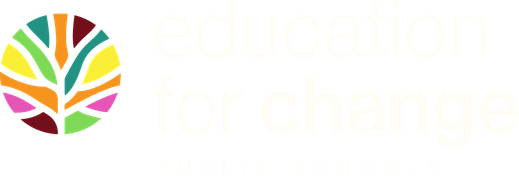
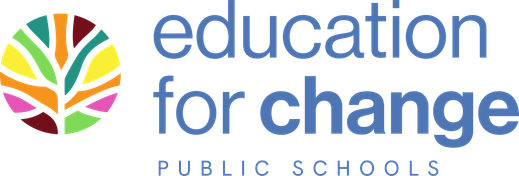
Bold: schools strip below the case studies as one slow looping row (static rows under reduced motion); Aspire and Education for Change wordmarks recolored for white tiles

diff --git a/tests/smoke.spec.ts b/tests/smoke.spec.ts
@@ -556,16 +556,23 @@ test('Concept 06: one H1, what we do right under the reel, no figure above the c
   const logos = page.getByTestId('client-logo');
   await expect(logos).toHaveCount(13);
   await page.getByTestId('client-strip').scrollIntoViewIfNeeded();
-  // thirteen tiles still wrap without a lone tile on any row, rows never widen downward
-  const logoRows = await logos.evaluateAll((els) => { const m = new Map<number, number>(); for (const el of els) { const t = Math.round(el.getBoundingClientRect().top); m.set(t, (m.get(t) ?? 0) + 1); } return [...m.entries()].sort((a, b) => a[0] - b[0]).map(([, n]) => n); });
-  expect(logoRows.reduce((a, b) => a + b, 0)).toBe(13);
-  expect(logoRows[logoRows.length - 1], `logo rows ${logoRows.join('-')}`).toBeGreaterThan(1);
-  for (let i = 1; i < logoRows.length; i++) expect(logoRows[i], `logo rows ${logoRows.join('-')}`).toBeLessThanOrEqual(logoRows[i - 1]);
+  // the strip sits below the three case studies and loops as one slow row: the track moves on its own and pauses under the pointer
+  expect(await page.getByTestId('client-strip').evaluate((el) => el.getBoundingClientRect().top > document.querySelector('.cr-case-row')!.getBoundingClientRect().bottom)).toBe(true);
+  await expect(page.getByTestId('client-strip')).toHaveAttribute('data-mode', 'marquee');
+  const track = page.locator('.cr-clients-track');
+  const x0 = await track.evaluate((el) => new DOMMatrixReadOnly(getComputedStyle(el).transform).m41);
+  await page.waitForTimeout(700);
+  const x1 = await track.evaluate((el) => new DOMMatrixReadOnly(getComputedStyle(el).transform).m41);
+  expect(x1, 'the logo row should be moving').not.toBe(x0);
+  await page.getByTestId('client-marquee').hover();
+  await expect.poll(() => track.evaluate((el) => getComputedStyle(el).animationPlayState)).toBe('paused');
+  await page.mouse.move(0, 0);
   await expect.poll(() => logos.locator('img').evaluateAll((imgs) => imgs.filter((el) => !(el as HTMLImageElement).complete || (el as HTMLImageElement).naturalWidth === 0).length), { timeout: 15_000 }).toBe(0);
   expect(await logos.locator('img').evaluateAll((imgs) => imgs.map((el) => (el as HTMLImageElement).alt).filter((a) => a.length < 4))).toEqual([]);
+  // every mark measured dark after Aspire and Education for Change were recolored for white tiles (October 30); the backstop still holds for any light mark
   const dark = await logos.evaluateAll((els) => els.filter((el) => el.getAttribute('data-tone') === 'light').map((el) => getComputedStyle(el).backgroundColor));
-  expect(dark.length).toBeGreaterThanOrEqual(2);
-  for (const bg of dark) expect(bg).not.toBe('rgb(255, 255, 255)');
+  expect(dark).toEqual([]);
+  expect(await logos.evaluateAll((els) => els.map((el) => getComputedStyle(el).backgroundColor).filter((bg) => bg !== 'rgb(255, 255, 255)'))).toEqual([]);
   const spill = await logos.evaluateAll((els) => els.map((el) => { const t = el.getBoundingClientRect(), i = el.querySelector('img')!.getBoundingClientRect(); return Math.round(Math.max(0, t.top - i.top, i.bottom - t.bottom, t.left - i.left, i.right - t.right)); }));
   expect(spill.filter((px) => px > 1), 'logos spilling out of their tiles').toEqual([]);
   expect(await page.getByTestId('cta-primary').getAttribute('href')).toBe('#contact');
@@ -582,6 +589,12 @@ test('Concept 06: one H1, what we do right under the reel, no figure above the c
   const dimmed = await p2.locator('[data-reveal]').evaluateAll((els) => els.filter((e) => getComputedStyle(e).opacity !== '1').length);
   expect(dimmed).toBe(0);
   for (const id of ['services', 'work', 'team', 'partner', 'contact']) await expect(p2.locator(`#${id}`)).toBeVisible();
+  // under reduced motion the schools strip is static, centered rows: all thirteen, never a lone tile, rows never widening downward
+  await expect(p2.getByTestId('client-strip')).toHaveAttribute('data-mode', 'static');
+  const logoRows = await p2.getByTestId('client-logo').evaluateAll((els) => { const m = new Map<number, number>(); for (const el of els) { const t = Math.round(el.getBoundingClientRect().top); m.set(t, (m.get(t) ?? 0) + 1); } return [...m.entries()].sort((a, b) => a[0] - b[0]).map(([, n]) => n); });
+  expect(logoRows.reduce((a, b) => a + b, 0)).toBe(13);
+  expect(logoRows[logoRows.length - 1], `logo rows ${logoRows.join('-')}`).toBeGreaterThan(1);
+  for (let i = 1; i < logoRows.length; i++) expect(logoRows[i], `logo rows ${logoRows.join('-')}`).toBeLessThanOrEqual(logoRows[i - 1]);
   await ctx.close();
 });
 

diff --git a/src/concepts/bold/bold.css b/src/concepts/bold/bold.css
@@ -160,7 +160,7 @@
 /* ---- work: three case cards, one photo, one sourced headline metric, a link to the case page ---- */
 .cr-work { background: var(--paper); color: var(--ink); padding-bottom: clamp(3rem, 7vw, 5.5rem); }
 /* Schools we've worked with: logo tiles in centered rows; a light (white or cream) mark gets the blue-ink tile as its backstop. */
-.cr-clients { margin: 0 0 clamp(2rem, 4vw, 3rem); }
+.cr-clients { margin: clamp(2.5rem, 5vw, 4rem) 0 0; }
 .cr-clients-title { font-family: var(--label); font-weight: 700; font-size: .78rem; letter-spacing: .18em; text-transform: uppercase; color: var(--blue); margin: 0 0 1rem; text-align: center; }
 .cr-clients-row { list-style: none; margin: 0; padding: 0; display: flex; flex-wrap: wrap; justify-content: center; gap: var(--g); --g: .75rem; --c: var(--c-phone, 3); --fix: var(--fix-phone, 0); }
 /* columns per breakpoint come from the component (it knows the count and avoids a remainder of one); when a lone tile is
@@ -174,6 +174,13 @@
 .cr-client:nth-last-child(-n+2) img { max-width: calc(100% * (var(--c) - var(--fix)) / var(--c)); } /* a widened tile still shows its logo at the normal column size */
 @media (min-width: 700px) { .cr-clients-row { --c: var(--c-tab, 4); --fix: var(--fix-tab, 0); } .cr-client { height: 100px; padding: .9rem 1.25rem; } }
 @media (min-width: 1200px) { .cr-clients-row { --c: var(--c-desk, 6); --fix: var(--fix-desk, 0); } .cr-client { height: 104px; padding: .9rem 1.1rem; } }
+/* the looping row: fixed tiles, one slow pass per tile count, paused on hover or focus; the component swaps in the static rows under reduced motion */
+.cr-clients-marquee { --tile-w: 168px; overflow-x: clip; overflow-y: visible; padding: .25rem 0; -webkit-mask-image: linear-gradient(to right, transparent, #000 7%, #000 93%, transparent); mask-image: linear-gradient(to right, transparent, #000 7%, #000 93%, transparent); }
+.cr-clients-track { --g: .75rem; --c: 1; --fix: 0; list-style: none; margin: 0; padding: 0; display: flex; gap: var(--g); width: max-content; animation: cr-clients-scroll calc(var(--n, 13) * 3.4s) linear infinite; }
+.cr-clients-marquee:hover .cr-clients-track, .cr-clients-marquee:focus-within .cr-clients-track { animation-play-state: paused; }
+.cr-clients-track .cr-client { flex: 0 0 var(--tile-w); height: 96px; padding: .8rem 1rem; }
+@keyframes cr-clients-scroll { to { transform: translateX(calc(-50% - var(--g) / 2)); } } /* exactly one copy of the list, so the loop is seamless */
+@media (max-width: 699px) { .cr-clients-marquee { --tile-w: 136px; } .cr-clients-track .cr-client { height: 80px; padding: .6rem .8rem; } }
 .cr-clients-note { margin: .9rem 0 0; font-size: .78rem; color: #666; text-align: center; }
 .cr-case-row { display: grid; gap: 1.5rem; }
 @media (min-width: 900px) { .cr-case-row { grid-template-columns: repeat(3, 1fr); } .cr-case:nth-child(2) { transform: translateY(2.5rem); } }
@@ -315,7 +322,7 @@
 
 @media (prefers-reduced-motion: reduce) {
   .cr-kinetic .cr-word { opacity: 1; transform: none; animation: none; }
-  .cr-marquee-track { animation: none; }
+  .cr-marquee-track, .cr-clients-track { animation: none; }
   .cr-hero-photo, .cr-reel-item, .cr-case-media img, .cr-btn, .cr-case, [data-reveal] { transition: none; }
   .reveal-ready [data-reveal]:not(.is-in) { filter: none; opacity: 1; }
 }

diff --git a/src/concepts/bold/App.tsx b/src/concepts/bold/App.tsx
@@ -242,32 +242,38 @@ function columns(n: number, candidates: number[]): { c: number; fix: 0 | 1 } {
 }
 
 function ClientStrip() {
+  const reduced = useReducedMotion();
   const n = clients.length;
   const desk = columns(n, [6, 7, 5]), tab = columns(n, [4, 5, 3]), phone = columns(n, [3, 2]);
   const vars = { '--c-desk': desk.c, '--fix-desk': desk.fix, '--c-tab': tab.c, '--fix-tab': tab.fix, '--c-phone': phone.c, '--fix-phone': phone.fix } as CSSProperties;
+  // One slow row that loops (the second copy is decoration), paused on hover or focus; static centered rows under reduced motion.
+  const tiles = (dup: boolean) => clients.map((c) => (
+    <li className={`cr-client${c.tone === 'light' ? ' cr-client--dark' : ''}`} key={dup ? `${c.slug}-dup` : c.slug} data-testid={dup ? 'client-logo-dup' : 'client-logo'} data-tone={c.tone} aria-hidden={dup || undefined}>
+      {c.svg ? (
+        <img src={c.svg} width={c.width} height={c.height} alt={dup ? '' : c.name} />
+      ) : (
+        <picture>
+          <source type="image/webp" srcSet={c.webp} />
+          <img src={c.png} width={c.width} height={c.height} alt={dup ? '' : c.name} />
+        </picture>
+      )}
+    </li>
+  ));
   return (
-    <div className="cr-clients" data-testid="client-strip">
+    <div className="cr-clients" data-testid="client-strip" data-mode={reduced ? 'static' : 'marquee'}>
       <h3 className="cr-clients-title" id="clients-title">Schools we've worked with</h3>
-      <ul className="cr-clients-row" aria-labelledby="clients-title" style={vars} data-count={n}>
-        {clients.map((c) => (
-          <li className={`cr-client${c.tone === 'light' ? ' cr-client--dark' : ''}`} key={c.slug} data-testid="client-logo" data-tone={c.tone}>
-            {c.svg ? (
-              <img src={c.svg} width={c.width} height={c.height} alt={c.name} loading="lazy" />
-            ) : (
-              <picture>
-                <source type="image/webp" srcSet={c.webp} />
-                <img src={c.png} width={c.width} height={c.height} alt={c.name} loading="lazy" />
-              </picture>
-            )}
-          </li>
-        ))}
-      </ul>
+      {reduced ? (
+        <ul className="cr-clients-row" aria-labelledby="clients-title" style={vars} data-count={n}>{tiles(false)}</ul>
+      ) : (
+        <div className="cr-clients-marquee" data-testid="client-marquee">
+          <ul className="cr-clients-track" aria-labelledby="clients-title" style={{ '--n': n } as CSSProperties}>{tiles(false)}{tiles(true)}</ul>
+        </div>
+      )}
       <p className="cr-clients-note">{clientsSource.note}</p>
     </div>
   );
 }
 
-/* 4. Work: three photo-led cards, one sourced headline metric each, each opening its case page on this site. */
 function Work() {
   return (
     <section id="work" className="cr-work" aria-labelledby="work-title">
@@ -281,11 +287,11 @@ function Work() {
           </div>
           <p className="cr-lede">{siteConfig.filmtwist.attribution}</p>
         </div>
-        <ClientStrip />
         <div className="cr-case-row">
           {caseStudies.map((c) => <CaseCard c={c} key={c.id} />)}
         </div>
         <ProofNote className="cr-proofnote" />
+        <ClientStrip />
       </div>
     </section>
   );

diff --git a/src/content/concepts.ts b/src/content/concepts.ts
@@ -169,6 +169,7 @@ export const currentChecklist: { round: string; items: ChecklistItem[] }[] = [
     round: 'Reviews of Version 3, October 30',
     items: [
       { note: 'Does the site read as if FSM has worked with only three schools?', state: 'done', how: 'A "Schools we\'ve worked with" strip now sits above the three case studies with every school on the brand owner\'s list (eleven), one logo tile each. Logos are from each school\'s public site; reuse needs the schools\' and FSM\'s approval.' },
+      { note: 'Schools strip: lower on the page, scrolling, every logo on white', state: 'done', how: 'Now below the three case studies as one slow looping row (pauses under the pointer; static rows when the device asks for reduced motion). Aspire\'s wordmark is set in its own purple and Education for Change\'s in the blue of its dark version, so no tile needs a dark backstop.' },
       { note: 'Two more schools: Morgan Autism Center and Visions In Education', state: 'done', how: 'Added October 30 at the project owner\'s request, logos from each site\'s own vector. Thirteen tiles; the rows rebalance to 7 and 6.' },
       { note: 'Anawakalmekak: include it?', state: 'partly', how: 'In for now, with the brand owner\'s question mark. Say the word and it comes out. Its only public logo is small; a better file is welcome.' },
       { note: 'Education for Change logo', state: 'partly', how: 'Only the light version (cream lettering) is published, so it sits on a dark tile. A dark-text version from FSM\'s files would let it sit on white like the others.' },

diff --git a/docs/CONCEPT_06_BRIEF.md b/docs/CONCEPT_06_BRIEF.md
@@ -107,7 +107,7 @@ The decision maker's October 29 review (hub form, "mostly" resolves): the site i
 - Earlier versions kept visible (October 29, evening, project owner: "we should see 6a, 6b and 6c", after the decision maker asked to see previous versions): the three states of Concept 06 are Concept 06a (Version 1, October 28, commit b2d0581), Concept 06b (Version 2, October 29, commit e83e62d, the last green-hero state) and Concept 06c (Version 3, the live page). 06a and 06b are frozen builds of those commits, built without review chrome, served from `public/6a/` and `public/6b/` (pages, their hashed bundles and assets, about 9 MB each), each page stamped with a banner naming the version and linking to the current one. The hub links both under the checklist heading. They are not updated again.
 - Round 3 (October 29, evening, from the Version 2 reviews by email): the decision maker asked whether the hero green was in the brand guide and said not to lean into that much green; the project owner agreed. It was not a guide color (the kit green darkened for contrast), so the hero is back on the kit-blue field of Version 1 with the one photo kept and the guide's greens as accents. The brand owner's staff changes are in: Jesse, Sunny Kim and Alec Gossage removed, Pat Angeles added in Alec's place with the headshot from her email; her title, Studio Administrator, is from her own email signature and is marked to confirm. Both reviewers voted to keep the opener. The hub shows Version 3 with a "Reviews of Version 2" round.
 - Round 3 follow-up (October 30): the project owner saw a lone ninth person starting the second team row. Nine cannot split evenly, so the tiles now sit in centered rows: 5 over 4 from 1000 px up, 3 by 3 below that (the photo shrinks to the column on a phone). No width leaves a single tile starting a row; the test asserts it. Concepts 06a and 06b are frozen copies of Versions 1 and 2 at `/6a/bold/` and `/6b/bold/`, linked from the hub for the decision maker's compare request.
-- Round 3 follow-up, the schools strip (October 30): the project owner asked whether the site reads as if FSM has worked with only three schools. It did: the three published campaigns were the only clients named. The decision maker's reply gave six names off the cuff and the brand owner sent the full list of eleven (Alpha Public Schools, Anawakalmekak with her own question mark, Aspire Public Schools, Education for Change, Envision Education, Friendship Public Charter Schools, Invictus Academy, Marin Primary & Middle School, Sherman Thomas Charter School, Summit Leadership Academy, Washington Yu Ying Public Charter School). A "Schools we've worked with" strip now sits inside the Work section above the three case cards: one logo tile per school, logos pulled from each school's public site at the largest size served (`scripts/client-logos.mjs`, `src/content/clients.ts`). Every tile has a backstop: white with a hairline border, or blue-ink when the mark is mostly white or cream (measured by the script: Aspire's wordmark and Education for Change's published light version), so no logo lands white on white. Rows never leave a lone tile (6 and 5 from 1200 px, 4-4-3 on a tablet, 3-3-3-2 on a phone). Reuse of every mark is a client approval; the footnote says so. Hub: Version 3.1 with a "Reviews of Version 3" round (strip, Anawakalmekak include?, Education for Change dark-text file wanted, Pat's title confirmed). Deployed October 30. Later the same afternoon the project owner added two more schools, Morgan Autism Center (morgancenter.org) and Visions In Education (viedu.org), both from the header vectors on their own sites, for thirteen tiles. Thirteen is prime, so the strip now picks its column count from the tile count (the first candidate that divides it, else the first that leaves no lone tile), and when a lone tile is unavoidable it widens the last two tiles so the rows end 2-2: 7 and 6 on desktop, 5-5-3 on a tablet, 3-3-3-2-2 on a phone. Hub: Version 3.2.
+- Round 3 follow-up, the schools strip (October 30): the project owner asked whether the site reads as if FSM has worked with only three schools. It did: the three published campaigns were the only clients named. The decision maker's reply gave six names off the cuff and the brand owner sent the full list of eleven (Alpha Public Schools, Anawakalmekak with her own question mark, Aspire Public Schools, Education for Change, Envision Education, Friendship Public Charter Schools, Invictus Academy, Marin Primary & Middle School, Sherman Thomas Charter School, Summit Leadership Academy, Washington Yu Ying Public Charter School). A "Schools we've worked with" strip now sits inside the Work section above the three case cards: one logo tile per school, logos pulled from each school's public site at the largest size served (`scripts/client-logos.mjs`, `src/content/clients.ts`). Every tile has a backstop: white with a hairline border, or blue-ink when the mark is mostly white or cream (measured by the script: Aspire's wordmark and Education for Change's published light version), so no logo lands white on white. Rows never leave a lone tile (6 and 5 from 1200 px, 4-4-3 on a tablet, 3-3-3-2 on a phone). Reuse of every mark is a client approval; the footnote says so. Hub: Version 3.1 with a "Reviews of Version 3" round (strip, Anawakalmekak include?, Education for Change dark-text file wanted, Pat's title confirmed). Deployed October 30. Later the same afternoon the project owner added two more schools, Morgan Autism Center (morgancenter.org) and Visions In Education (viedu.org), both from the header vectors on their own sites, for thirteen tiles. Thirteen is prime, so the strip now picks its column count from the tile count (the first candidate that divides it, else the first that leaves no lone tile), and when a lone tile is unavoidable it widens the last two tiles so the rows end 2-2: 7 and 6 on desktop, 5-5-3 on a tablet, 3-3-3-2-2 on a phone. Hub: Version 3.2. The project owner then asked for white tiles throughout with Aspire's and Education for Change's white text made visible, and whether the proof belongs lower and should scroll. Both yes: the strip now sits below the three case studies and their proof note, as one slow looping row (one tile count per pass, paused under the pointer or keyboard focus, static centered rows under reduced motion). Aspire's wordmark is recolored from white to the mark's own purple, Education for Change's cream wordmark to the blue of its own dark version, both flagged for the schools' own files (REQUIRES_CLIENT_CONFIRMATION).
 - Larger mark (same round, project owner: "is the animation larger without the title?"): the mark now fills about 82 to 88 percent of the viewport width (svg up to 430 px, wordmark up to 6.2 rem; 30vw and 6.6vw on phones), with at least 16 px clear on each side down to a 360 px phone and no horizontal overflow.
 - Statement removed (October 29, later still, project owner: the headline "appears in the animation"): the opener no longer carries its own statement slide; the page's H1 is the bold statement and it is the first thing on screen when the mark lands. The decision maker's "logo animation, then a bold statement, then the page" is now logo animation, then the page with the statement at the top of it. Total 3.5 s.
 - Landing follow-up (October 29, later): the review ribbon and pill wait with the header, all three fading in by tween once the mark lands; the landing target is measured when the tween first renders (after the brand font loads) and aims the svg, so the hand lands on the header logo's hand to the pixel.

diff --git a/docs/CONTENT_AND_CLAIMS.md b/docs/CONTENT_AND_CLAIMS.md
@@ -122,7 +122,7 @@ The merged direction introduces three pieces of copy that the first four concept
 | --- | --- | --- | --- |
 | Team photos, names and roles (Tien Louis-Goff, Deepa Pathak, Jackie Costanzo, Emily Martin, Jesse, Rhett, David, Kien, Stefan, Sunny Kim, Alec Gossage) | Concept 05 "Who you work with"; `src/content/team.ts`, `public/assets/team/` | https://www.filmtwist.com/about, read 10/28/2026; wording as published (first names only where the page shows only a first name). Headshots are the page's own files with the background lifted. The page labels them "Team photos and roles from filmtwist.com/about. Reuse approval pending." | REQUIRES_CLIENT_CONFIRMATION (reuse; who should appear; full names for the five shown by first name) |
 | Team roster change (October 29): Jesse, Sunny Kim and Alec Gossage removed; Pat Angeles added in Alec's place, headshot from her email | Concept 05 and 06 team sections; `src/content/team.ts`, `public/assets/team/pat.*` | The brand owner's email of 10/29/2026 5:06 PM PT ("remove Jesse, Sunny, and Alec. In Alec's spot add Pat Angeles and here is her headshot"); the headshot is the inline image in that email, subject lifted. No title was given in that email; "Studio Administrator" is her own email signature (Patricia Angeles, msg 1a146d04f545259a, 10/17/2026). | Roster: client-stated. Title: from her signature; confirmed by the decision maker 10/30/2026 (msg 1a18dc3a58d1ccd8) |
-| "Schools we've worked with" strip (October 30): thirteen school logos | Concept 06 Work section; `src/content/clients.ts`, `public/assets/clients/`, `scripts/client-logos.mjs` | The brand owner's full client list, relayed by the project owner 10/30/2026 (Alpha Public Schools, Anawakalmekak, Aspire Public Schools, Education for Change, Envision Education, Friendship Public Charter Schools, Invictus Academy, Marin Primary & Middle School, Sherman Thomas Charter School, Summit Leadership Academy, Washington Yu Ying PCS), plus Morgan Autism Center and Visions In Education, added by the project owner 10/30/2026. Logos pulled 10/30 from each school's own public site or a public job-board copy; per-file URLs in `fsm-concepts-source/logos/clients/SOURCE.txt`. The page labels them "School logos from each school's public site (October 30). Reuse approval pending." | REQUIRES_CLIENT_CONFIRMATION (reuse of each mark, which needs the schools' permission too; whether Anawakalmekak appears, the brand owner was unsure; better files for Anawakalmekak and a dark-text Education for Change) |
+| "Schools we've worked with" strip (October 30): thirteen school logos | Concept 06 Work section; `src/content/clients.ts`, `public/assets/clients/`, `scripts/client-logos.mjs` | The brand owner's full client list, relayed by the project owner 10/30/2026 (Alpha Public Schools, Anawakalmekak, Aspire Public Schools, Education for Change, Envision Education, Friendship Public Charter Schools, Invictus Academy, Marin Primary & Middle School, Sherman Thomas Charter School, Summit Leadership Academy, Washington Yu Ying PCS), plus Morgan Autism Center and Visions In Education, added by the project owner 10/30/2026. Logos pulled 10/30 from each school's own public site or a public job-board copy; per-file URLs in `fsm-concepts-source/logos/clients/SOURCE.txt`. The page labels them "School logos from each school's public site (October 30). Reuse approval pending." Two marks are recolored for white tiles at the project owner's request (10/30): Aspire's white wordmark set in the mark's own purple (#85568a), Education for Change's cream wordmark set in the blue of its own dark version (#4e76b5); neither recolor is the school's own file. | REQUIRES_CLIENT_CONFIRMATION (reuse of each mark, which needs the schools' permission too; whether Anawakalmekak appears, the brand owner was unsure; better files for Anawakalmekak; the schools' own dark-background versions for Aspire and Education for Change in place of the recolors) |
 | Contact form | Concept 05 "Work with us"; `FsmForm.tsx`, `siteConfig.leadConnector` | Version 2.1: a Full School Marketing form that posts to FilmTwist's LeadConnector "RFI Contact Form" `DveY4KWgzKqaGiHAAA2e` (location `6DjFgiECQC0Tt8gNX4vT`) with the widget's own payload. Fields, required flags, option lists, consent text and thank-you text are the form's own, read from the widget configuration 10/28/2026. Submissions go to FilmTwist's account; this site stores nothing. No test submission was made; the lead's arrival is unverified until one real submission is made. (Version 2 embedded the form as an iframe; `mode: 'embed'` restores that.) | REQUIRES_CLIENT_CONFIRMATION (one real submission to confirm delivery; FilmTwist may prefer a dedicated FSM form in the same account) |
 | Case-study pages | `visible/work/{aspire,friendship,envision}/` | Every figure, descriptor, story line and image is the same record as the cards (`caseStudies.ts`), with the published source cited at the foot of each page. No new claims. | As the case studies |
 | Hub checklist wording | Hub, "What Version 2 addresses" | Paraphrases of the 10/27 reviewer notes and the 10/28 asks, no names, no ratings. | Internal review copy |

diff --git a/docs/PRODUCTION_HANDOFF.md b/docs/PRODUCTION_HANDOFF.md
@@ -30,7 +30,7 @@ What remains to turn the chosen concept into the final Full School Marketing sit
   - 03: test the pinned story on real iOS Safari and low-end Android; keep the static reduced-motion path in sync when scenes change.
   - 05 (the merged direction, `src/concepts/visible/`): it is a fork of 03's story code, so promoting it means promoting `visible/` and `visible/work/*` and retiring `story/` along with the other originals. Confirm the three new copy claims (hero line, team line with "started in 2020", first-conversation line) before launch; wire the merged-feedback fields out of the review build with the rest of the review chrome.
   - `public/6a/` and `public/6b/` are frozen review copies of earlier Concept 06 versions; they do not ship to production.
-  - 06 (the current direction, `src/concepts/bold/`): a fork of 02's page with 05's sections. Promoting it means promoting `bold/` and `bold/work/*`; it imports `ServiceIcons.tsx` and `FsmForm.tsx` from `src/concepts/visible/`, which move with it. The five Concept 06 feedback fields (`siteConfig.feedbackForm.fields.current`) come out with the review chrome. Confirm the Concept 02 hero copy and the four partner-step lines before launch. The opener (`Opener.tsx`) depends on GSAP's MorphSVG plugin, which ships free in gsap 3.13 and later; set `REPLAY_EVERY_LOAD` to false at launch so it plays once per session, and keep the skip listeners. The team roster is the brand owner's of 10/29 (nine people); Pat Angeles's title (Studio Administrator) was confirmed by the decision maker on 10/30; the five first-name-only members still want full names. The "Schools we've worked with" strip (`src/content/clients.ts`, `public/assets/clients/`) carries thirteen school logos pulled from public sites (the brand owner's eleven plus Morgan Autism Center and Visions In Education, added by the project owner); before launch, confirm with FSM that each school has agreed to appear, settle Anawakalmekak, and swap in FSM's own files for Anawakalmekak (308 px) and a dark-text Education for Change.
+  - 06 (the current direction, `src/concepts/bold/`): a fork of 02's page with 05's sections. Promoting it means promoting `bold/` and `bold/work/*`; it imports `ServiceIcons.tsx` and `FsmForm.tsx` from `src/concepts/visible/`, which move with it. The five Concept 06 feedback fields (`siteConfig.feedbackForm.fields.current`) come out with the review chrome. Confirm the Concept 02 hero copy and the four partner-step lines before launch. The opener (`Opener.tsx`) depends on GSAP's MorphSVG plugin, which ships free in gsap 3.13 and later; set `REPLAY_EVERY_LOAD` to false at launch so it plays once per session, and keep the skip listeners. The team roster is the brand owner's of 10/29 (nine people); Pat Angeles's title (Studio Administrator) was confirmed by the decision maker on 10/30; the five first-name-only members still want full names. The "Schools we've worked with" strip (`src/content/clients.ts`, `public/assets/clients/`) carries thirteen school logos pulled from public sites (the brand owner's eleven plus Morgan Autism Center and Visions In Education, added by the project owner); before launch, confirm with FSM that each school has agreed to appear, settle Anawakalmekak, and swap in FSM's own files for Anawakalmekak (308 px) and for the two recolored marks (Aspire's wordmark set in its purple, Education for Change's in its blue; the schools' own dark-background versions are wanted). The strip loops as one row (`.cr-clients-track`, CSS animation, paused on hover or focus) and falls back to static rows under reduced motion.
   - 05 contact form (Version 2.1): a native Full School Marketing form (`FsmForm.tsx`) posts to FilmTwist's LeadConnector "RFI Contact Form" with the widget's own payload (`siteConfig.leadConnector` holds the form id, location id, field tags and option lists, all read from the widget configuration on October 28, 2026). Before launch: (1) one real submission to confirm the lead lands in FilmTwist's account with every field mapped; (2) if FilmTwist turns on Turnstile for this form (its site keys are empty today), the direct post will start failing with a 4xx and the form shows its error line, so either keep Turnstile off for this form or switch `mode` to `'embed'`; (3) better still, FilmTwist creates a dedicated FSM form in the same account (an FSM tag on the lead, school-specific service and budget options) and the ids are swapped. The native form sets no cookies; the `'embed'` mode (LeadConnector plus Turnstile) does, which is what decision 7's consent language covers.
   - 05 team: the eleven cut-out headshots were lifted from the About-page files at 200px to 1,979px; the five smaller ones (Jesse, Rhett, David, Kien, Stefan) are soft at 2x. Ask FilmTwist for the originals before launch.
   - 04: confirm the client is comfortable with the worksheet arithmetic on their published campaign figures; consider adding a "send me my worksheet" email capture.

diff --git a/docs/QA_REPORT.md b/docs/QA_REPORT.md
@@ -19,6 +19,20 @@ checklist). The Concept 04 smoke test was rewritten for the worksheet. Full suit
 (1.1 min). Desktop and mobile folds and full pages were reviewed; one defect (range labels colliding with notes) was fixed
 before the rerun. Lighthouse was not rerun for this revision.
 
+## Revision October 30, 2026 (fifteenth): the strip below the case studies, scrolling, all white (not deployed)
+
+Project owner: white tiles for Aspire and Education for Change with their white text made visible; should the proof sit lower,
+and should it scroll. Aspire's wordmark path (`fill="#ffffff"`) is set in the mark's own purple (#85568a); Education for
+Change's cream pixels are recolored to the wordmark blue measured from its dark version (#4e76b5, the tree untouched);
+both now measure dark (0.45, 0.50) and every tile is white. The strip moved below the three case studies and the proof note.
+Without reduced motion it is one looping row: fixed 168 by 96 px tiles (136 by 80 on a phone), the list twice, a CSS
+animation of 3.4 s per tile (44.2 s for thirteen) translating exactly one copy so the loop is seamless, paused on hover or
+focus, edges faded with a mask. Under reduced motion the component renders the static centered rows of the fourteenth
+revision. Images are eager so tiles never slide in blank. Measured in Chromium and WebKit at 1440 and 390: strip below the
+case row; track moves about 38 px in 0.7 s; every tile white; 0 px spill; no horizontal overflow; reduced motion gives 7-6
+and 3-3-3-2-2. Tests: strip below the cases, track moving, paused on hover, no light-tone tile and every tile white,
+reduced-motion rows. Concept 06 and hub tests 48 passed; full local suite 280 passed, 0 failed.
+
 ## Revision October 30, 2026 (fourteenth): two more schools in the strip (not deployed)
 
 Morgan Autism Center and Visions In Education added at the project owner's request: both from the header vector on the
